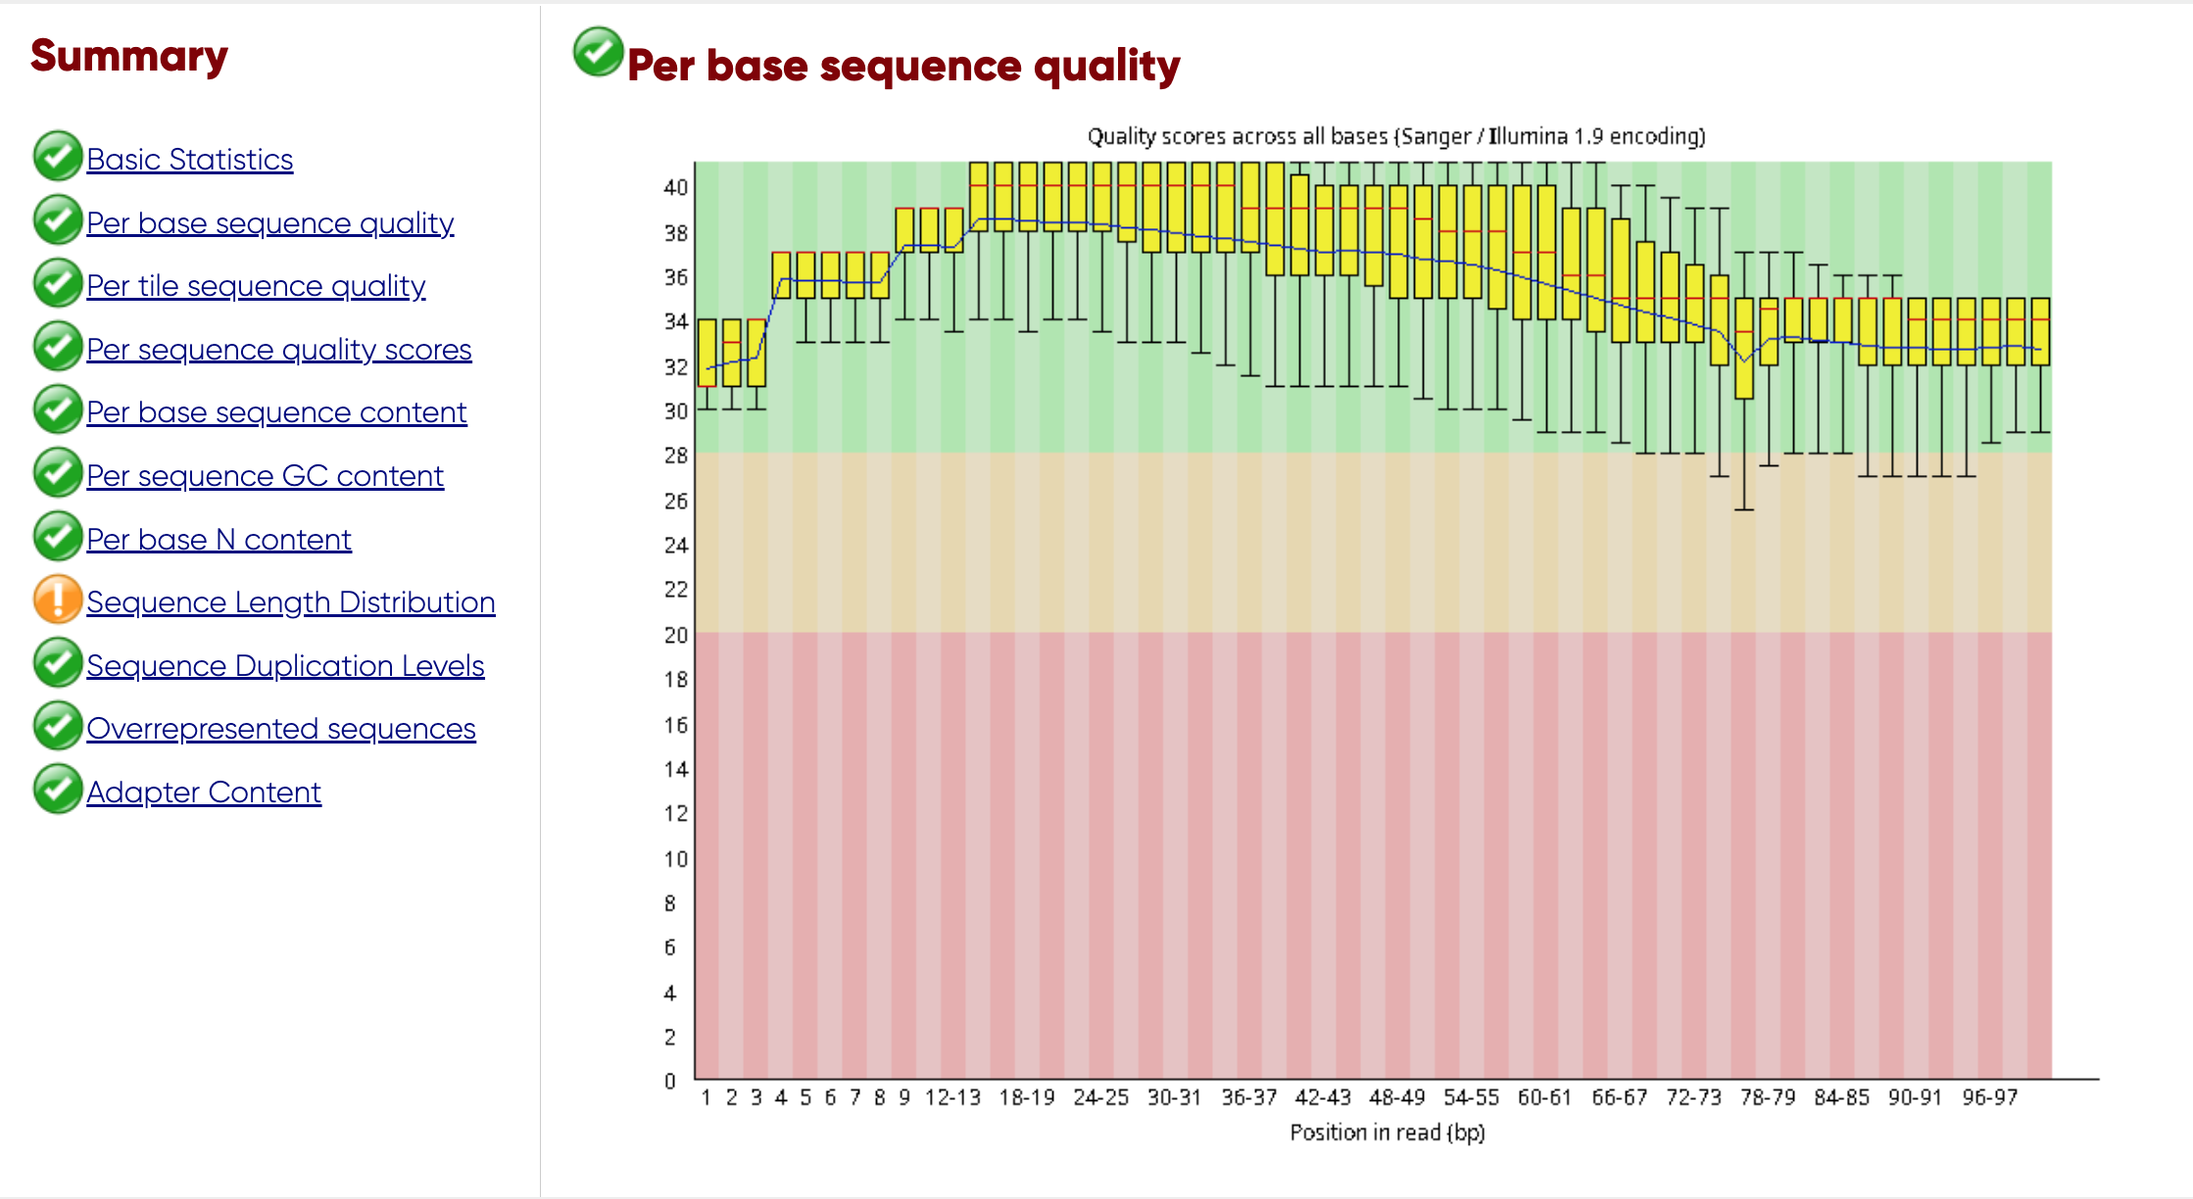
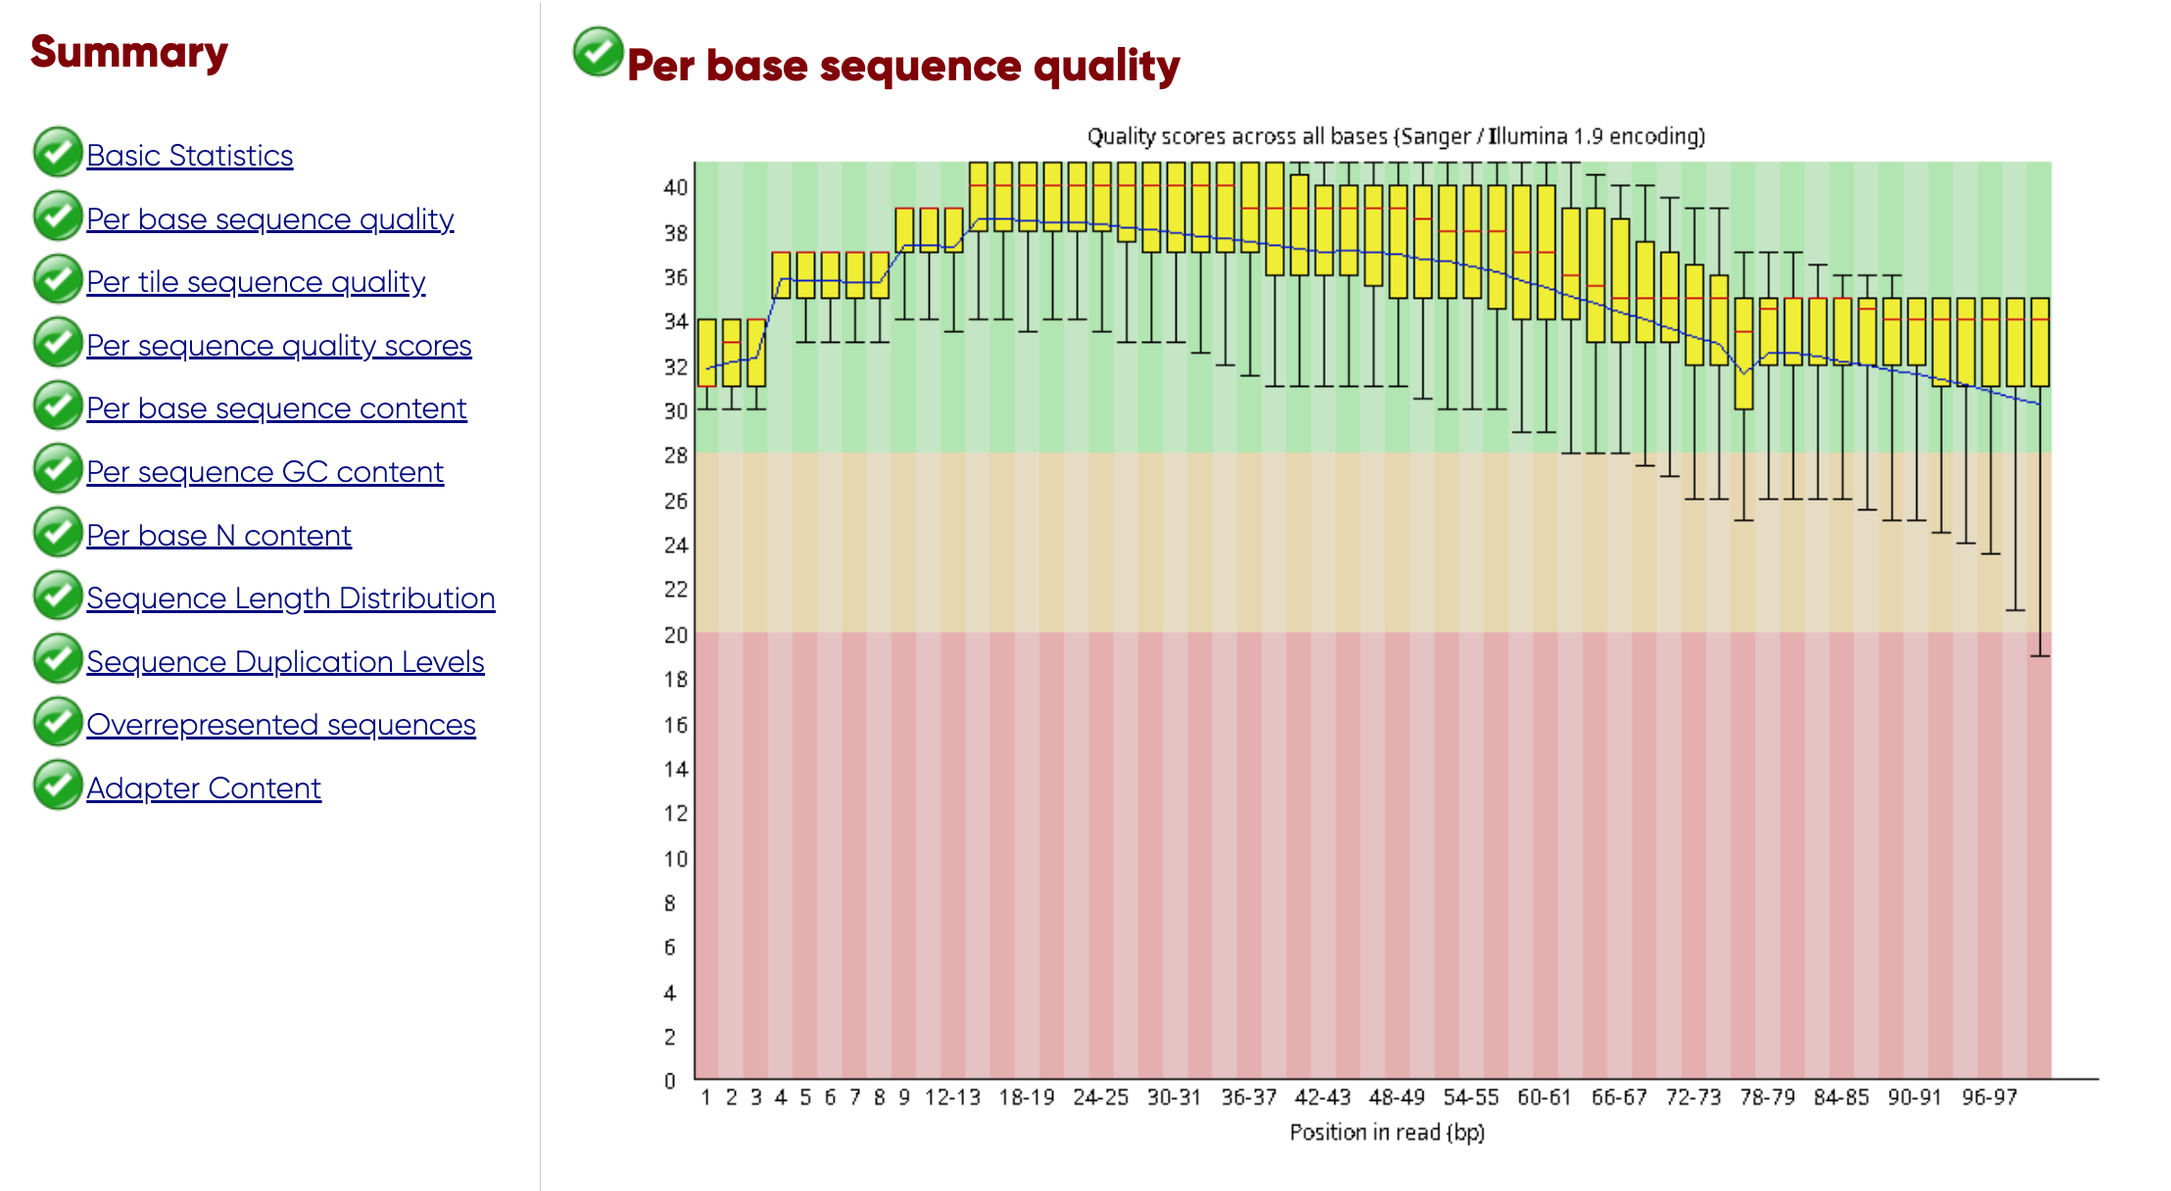
Added information about data; Added several images

diff --git a/RAPORT.md b/RAPORT.md
@@ -7,19 +7,29 @@ This repository contains all datasets, commands, and analyses used in the projec
 
 ## 📖 **Description**
 
-This project focuses on genome assembly, annotation and quality assessment of *Rhizoctonia solani* using multiple sequencing technologies (HiFi, Nanopore, and Illumina).
+This project focuses on genome assembly, annotation and quality assessment of _Rhizoctonia solani_, with a primary emphasis on anastomosis group AG-8, using multiple sequencing technologies (HiFi, Nanopore, and Illumina).
 
-Rhizoctonia solani is a phytopathogenic fungus belonging to the order Cantharellales (formerly classified within Basidiomycota). It is widely distributed in soil and is responsible for diseases affecting many cultivated plants, such as seedling damping-off, root rot, and leaf spot diseases. Rhizoctonia solani has a broad host range, which makes it difficult to control in agriculture.  
+_Rhizoctonia solani_ is a phytopathogenic fungus belonging to the order Cantharellales (formerly classified within Basidiomycota). It is widely distributed in soil and is responsible for diseases affecting many cultivated plants, such as seedling damping-off, root rot, and leaf spot diseases. _Rhizoctonia solani_ has a broad host range, which makes it difficult to control in agriculture.  
 
-The number of chromosomes in R. solani depends on the strain and ranges from 10 to 18. Strains AG8 and AG1 each possess 16 chromosomes. Genome size also varies among strains and ranges from 37 to 51 Mb. A significant portion of the genome consists of repetitive elements, which on average account for about 16% of the total DNA sequence. An interesting feature of this species is the ability of some strains to exist in a heterokaryotic form, meaning that their cells contain two different haploid nuclei, which increases their genetic diversity and adaptive potential.   
+The number of chromosomes in _R.solani_ depends on the strain and ranges from 10 to 18. Strains AG8 and AG1 each possess 16 chromosomes. Genome size also varies among strains and ranges from 37 to 51 Mb. A significant portion of the genome consists of repetitive elements, which on average account for about 16% of the total DNA sequence. An interesting feature of this species is the ability of some strains to exist in a heterokaryotic form, meaning that their cells contain two different haploid nuclei, which increases their genetic diversity and adaptive potential.   
+
+Although this study focuses on the assembly of the AG-8 genome, the most contiguous publicly available assembly of _R. solani_ belongs to AG-1 and was therefore used as the reference genome for reference-based and comparative analyses.
 
 ---
 
 ## 🧫 **Data**
 
+All datasets used in this study were obtained from the NCBI public repositories (GenBank and SRA). NCBI was chosen as the primary data source because it provides curated and versioned datasets, ensuring reproducibility and long-term accessibility. For all downloaded files, SHA-1 checksums were computed to verify data integrity and to enable exact replication of the analysis.
+
 ### 🧬 **Reference genome**
 
-Reference genome of *Rhizoctonia solani* AG-1 was downloaded using this command on the 29 Oct from the NCBI FTP:  
+Although _Rhizoctonia solani_ **AG-8** was the primary focus of genome assembly in this study, the publicly available **AG-8** reference assembly was not suitable for use as a high-quality reference genome.
+In particular, the available **AG-8** assembly is highly fragmented, consisting of  857 scaffolds, which limits its utility for reliable reference-based analyses and large-scale structural comparisons.
+
+For this reason, the most contiguous and well-assembled genome available for _R.solani_ was selected as the reference.
+The genome of _Rhizoctonia solani_ **AG-1**, which exhibits substantially higher contiguity and assembly quality, was therefore used as the primary reference genome in downstream analyses.
+
+Reference genome of _Rhizoctonia solani_ **AG-1** was downloaded using this command on the 29 Oct from the NCBI FTP:  
 ```
 wget "https://ftp.ncbi.nlm.nih.gov/genomes/all/GCF/016/906/535/GCF_016906535.1_ASM1690653v1/GCF_016906535.1_ASM1690653v1_genomic.fna.gz"
 ```
@@ -28,7 +38,7 @@ Resulting file:  `GCF_016906535.1_ASM1690653v1_genomic.fna`
 Shasum:  `87326de160c2cdf7436eef52a591c5abc4a1c1a8`
 
 
-Reference genome of *Rhizoctonia solani* AG-8 was downloaded using this command on the 24 Nov from the NCBI FTP:
+Reference genome of _Rhizoctonia solani_ **AG-8** was downloaded using this command on the 24 Nov from the NCBI FTP:
 ```
 wget 'https://ftp.ncbi.nlm.nih.gov/genomes/all/GCA/000/695/385/GCA_000695385.1_RSAG8-1.V1/GCA_000695385.1_RSAG8-1.V1_genomic.fna.gz'
 ```
@@ -40,7 +50,9 @@ Shasum:  `7ce7c33021e7f81b7c8d7967ac9946123a420476`
 
 ### 🧬 **HiFi reads**
 
-HiFi **SRR34390379** reads from *Rhizoctonia solani* **AG-8** were downloaded from [NCBI](https://trace.ncbi.nlm.nih.gov/Traces/?run=SRR34390379) on the 30 Oct 2025:
+PacBio HiFi reads provide high per-base accuracy and long read lengths, making them suitable for genome assembly, polishing, and structural variant detection.
+
+HiFi **SRR34390379** reads from _Rhizoctonia solani_ **AG-8** were downloaded from [NCBI](https://trace.ncbi.nlm.nih.gov/Traces/?run=SRR34390379) on the 30 Oct 2025:
 ```
 prefetch SRR34390379
 fasterq-dump SRR34390379
@@ -53,7 +65,7 @@ Shasum: `f23b3523af9fe21aeef2066da8ba14444e2a0ea7`
 
 ### 🧬 **Nanopore reads**
 
-Nanopore reads **SRR17331923** (GridION) from *Rhizoctonia solani* **AG-7** were downloaded from [NCBI](https://trace.ncbi.nlm.nih.gov/Traces/?view=run_browser&acc=SRR17331923&display=metadata):
+Nanopore reads **SRR17331923** (GridION) from _Rhizoctonia solani_ **AG-7** were downloaded from [NCBI](https://trace.ncbi.nlm.nih.gov/Traces/?view=run_browser&acc=SRR17331923&display=metadata):
 ```
 prefetch SRR17331923
 fasterq-dump SRR17331923
@@ -62,12 +74,15 @@ fasterq-dump SRR17331923
 Resulting file: `SRR17331923.fastq`  
 Shasum: `c661512388e38debe5a84347e48f3b9e00c702ae`
 
+The choice of Nanopore reads from **AG-7** was motivated by the lack of publicly available Nanopore sequencing data for _R.solani_ **AG-8** in the NCBI SRA at the time of data collection.
+Among the available datasets, **AG-7** represents the closest phylogenetically related lineage to **AG-8**, making it the most suitable proxy for incorporating long-read Nanopore data into the analysis.
+
 ---
 
 ### 🧬 **Illumina reads**
 
 
-Illumina (HiSeq 2000) paired-end reads **SRR8926039** from *Rhizoctonia solani* **AG-8** were downloaded from 
+Illumina (HiSeq 2000) paired-end reads **SRR8926039** from _Rhizoctonia solani_ **AG-8** were downloaded from 
 [NCBI](https://trace.ncbi.nlm.nih.gov/Traces/?view=run_browser&acc=SRR8926039&display=metadata) on 24 Nov 2025:
 ```
 prefetch SRR8926039
@@ -84,7 +99,7 @@ Shasum:
 
 ---
 
-Illumina (HiSeq 2000) paired-end reads **SRR11560048** from *Rhizoctonia solani* **AG-1** were downloaded from [NCBI](https://trace.ncbi.nlm.nih.gov/Traces/?view=run_browser&acc=SRR11560048&display=metadata) on 29 Oct 2025:
+Illumina (HiSeq 2000) paired-end reads **SRR11560048** from _Rhizoctonia solani_ **AG-1** were downloaded from [NCBI](https://trace.ncbi.nlm.nih.gov/Traces/?view=run_browser&acc=SRR11560048&display=metadata) on 29 Oct 2025:
 ```
 prefetch SRR11560048
 fasterq-dump SRR11560048
@@ -102,7 +117,9 @@ Shasum:
 
 ### 🧬 **Hi-C reads**
 
-Hi-C paired-end reads **SRR34411203** from *Rhizoctonia solani* **AG-8** were downloaded from [NCBI](https://www.ncbi.nlm.nih.gov/sra/SRX29574603[accn]) on 18 Nov 2025:
+Hi-C sequencing data capture three-dimensional chromatin interactions, enabling scaffolding of contigs into chromosome-scale assemblies and validation of large-scale genome organization.
+
+Hi-C paired-end reads **SRR34411203** from _Rhizoctonia solani_ **AG-8** were downloaded from [NCBI](https://www.ncbi.nlm.nih.gov/sra/SRX29574603[accn]) on 18 Nov 2025:
 ```
 prefetch SRR34411203
 fasterq-dump SRR34411203
@@ -123,28 +140,66 @@ Shasum:
 ### **HiFi reads**
 
 #### **FastQC**
-```
-fastqc SRR11560043.fastq
-```
-Results of quality control were ideal.
-
 
 ```
 fastqc SRR34390379.fastq
 ```
 
-![SRR34390379 FastQC](./data/images/SRR_HIFI_fastqc.png)
+![SRR34390379 FastQC](./data/images/FastQC-raport-SRR34390379.png)
+
+![SRR34390379 FastQC](./data/images/FastQC-raport-SRR34390379_PBSC.png)
+A strong nucleotide composition bias was observed at the first base position of HiFi reads, with an overrepresentation of thymine. This effect is a known technical artifact associated with SMRTbell library construction and circular consensus sequencing and does not reflect underlying genomic sequence composition. Nucleotide frequencies stabilized after the first base position, indicating high-quality reads.
+
+![SRR34390379 FastQC](./data/images/FastQC-raport-SRR34390379_GC.png)
+The distribution is characterized by a sharp peak centered at approximately 49% GC, reaching nearly the maximum of the plot, indicating that a large fraction of reads share a highly similar GC composition.
+
+In addition to the dominant peak, a secondary, smaller peak around ~35-36% GC is also observed.
+The presence of multiple peaks suggests that the dataset likely represents a mixture of sequences originating from distinct genomic sources, rather than a single homogeneous genome.
+
+During downstream genome assembly, reads contributing to the secondary GC peak were assembled into a small number of contigs that could not be mapped to the selected reference genome.
+These contigs are therefore likely derived from contaminating organisms.
+
+#### **NanoPlot**
+
+```
+NanoPlot \
+  --fastq SRR34390379.fastq \
+  -o nanoplot_SRR34390379
+```
+
+![SRR34390379 FastQC](./data/images/NanoPlot_raport_SRR34390379.png)
+
+---
+
+![SRR34390379 FastQC](./data/images/NanoPlot_KDE_SRR34390379.png)
+
 
 ---
 
 ### **Nanopore**
 
+#### **NanoPlot**
+
+DOT
+```
+NanoPlot \
+  --fastq SRR17331923.fastq \
+  --plots dot \
+  --downsample 200000 \
+  --loglength \
+  -o nanoplot_SRR17331923_2
+```
+
 #### **Preliminary QC**
 ```
-NanoPlot --fastq SRR[number].fastq -o SRR[number]_nanoplot
+NanoPlot --fastq SRR17331923.fastq -o SRR17331923_nanoplot
 ```
 
 ![SRR17331923 nanoplot statistics](./data/images/SRR17331923_nanoplot_STATS.png)
+
+---
+
+![SRR17331923 nanoplot statistics](./data/images/NanoPlot_KDE_SRR17331923_before.png)
 
 #### **Adapter trimming**
 ```
@@ -165,6 +220,13 @@ filtlong --min_length 1000 --keep_percent 90 SRR17331923_trimmed.fq > SRR1733192
 
 ![SRR17331923 nanoplot statistics](./data/images/SRR17331923_nanoplot_clean_STATS.png)
 
+---
+
+![SRR17331923 nanoplot statistics](./data/images/NanoPlot_KDE_SRR17331923_clean.png)
+
+
+---
+
 ### **Illumina**
 
 **SRR11560048**
@@ -173,10 +235,14 @@ filtlong --min_length 1000 --keep_percent 90 SRR17331923_trimmed.fq > SRR1733192
 
 ```
 fastqc SRR11560048_1.fastq
+```
+![FastQC report SRR11560048_1](./data/images/FastQC-raport-SRR11560048_1.png)
+
+```
 fastqc SRR11560048_2.fastq
 ```
-Reports are stored in data/reads/FASTQC_REPORTS   
-Reads were already preprocessed by authors  
+![FastQC report SRR11560048_2](./data/images/FastQC-raport-SRR11560048_2.png)
+
 
 #### **Fastp**
 
@@ -203,17 +269,25 @@ Fastp report is stored in data/reads/FASTP_REPORTS
 
 #### **FastQC after preprocessing**
 
+Prior to trimming, the Illumina data showed excellent quality in FastQC, with all metrics within the green range. After processing with fastp, the sequence length distribution displayed minor peaks around 90–91 bp and 94–95 bp. These small shifts likely reflect the trimming of adapters or low-quality bases by fastp, resulting in slightly shorter reads.
+
 ```
 fastqc SRR11560048_1.clean.fastq.gz
+```
+
+![FastQC report SRR11560048](./data/images/FastQC-raport-SRR11560048_1_clean_SLD.png)
+
+
+```
 fastqc SRR11560048_2.clean.fastq.gz
 ```
-Reports are stored in data/reads/FASTQC_REPORTS 
 
-![FastQC report SRR11560048](./data/images/FastQC-raport-SRR11560048_1.png)
+![FastQC report SRR11560048](./data/images/FastQC-raport-SRR11560048_2_clean_SLD.png)
+
 
 ---
 
-![FastQC report SRR11560048](./data/images/FastQC-raport-SRR11560048_2.png)
+
 
 
 ## 🧬 **Assembly**
@@ -437,7 +511,7 @@ mummerplot -p dot_hifiasm_HIFI_SRR34390379_HIC_SRR34411203_plot -t png hifiasm_H
 
 # QUAST
 
-### **Reference genome: R.solani AG-1**
+### **Reference genome: _R.solani_ AG-1**
  
 ```
 quast -r ref/GCF_016906535.1_ASM1690653v1_genomic.fna -l "spades_illumina_pe, smart_nanopore, smart_hifi, miniasm_nanopore, miniasm_hifi, hifiasm" assembly/spades_illumina_SRR11560048_pe/scaffolds.fasta assembly/SMARTdenovo_nanopore_SRR17331923/SMARTdenovo_nanopore_SRR17331923.dmo.cns assembly/SMARTdenovo_HIFI_SRR11560043/SMARTdenovo_HIFI_SRR11560043.dmo.cns assembly/Minimap2_nanopore_SRR17331923/miniasm_nanopore_SRR17331923.fa assembly/Minimap2_HIFI_SRR11560043/miniasm_HIFI_SRR11560043.fa assembly/Hifiasm_HIFI_SRR34390379_HIC_SRR34411203/hifiasm_HIFI_SRR34390379_HIC_SRR34411203.hic.p_ctg.fa
@@ -446,7 +520,7 @@ quast -r ref/GCF_016906535.1_ASM1690653v1_genomic.fna -l "spades_illumina_pe, sm
 ![Quast analysis Ref: AG-1](./data/images/quast_all_AG1_2.png)
 
 
-### **Reference genome: R.solani AG-8**
+### **Reference genome: _R.solani_ AG-8**
 Throughout all stages of the analysis, the AG-1 reference genome was used due to its higher completeness. The QUAST comparison against the AG-8 reference genome was performed only for illustrative purposes, as this assembly consists of 857 scaffolds and is of lower quality than the assembly generated by me.
 ```
 quast -r ref/GCA_000695385.1_RSAG8-1.V1_genomic.fna -l "spades_illumina_pe, smart_nanopore, smart_hifi, miniasm_nanopore, miniasm_hifi, hifiasm" assembly/spades_illumina_SRR11560048_pe/scaffolds.fasta assembly/SMARTdenovo_nanopore_SRR17331923/SMARTdenovo_nanopore_SRR17331923.dmo.cns assembly/SMARTdenovo_HIFI_SRR11560043/SMARTdenovo_HIFI_SRR11560043.dmo.cns assembly/Minimap2_nanopore_SRR17331923/miniasm_nanopore_SRR17331923.fa assembly/Minimap2_HIFI_SRR11560043/miniasm_HIFI_SRR11560043.fa assembly/Hifiasm_HIFI_SRR34390379_HIC_SRR34411203/hifiasm_HIFI_SRR34390379_HIC_SRR34411203.hic.p_ctg.fa
@@ -459,7 +533,7 @@ quast -r ref/GCA_000695385.1_RSAG8-1.V1_genomic.fna -l "spades_illumina_pe, smar
 
 ### **HiFi SRR34390379 + Hi-C SRR34411203 using Illumina SRR8926039 reads**
 
-Polishing genome assembly was performed using short Illumina reads from R.solani AG-8 strain.   
+Polishing genome assembly was performed using short Illumina reads from _R.solani_ AG-8 strain.   
 
 ```
 mkdir CORRECTED_Masurca_Hifiasm_HIFI_SRR34390379_HIC_SRR34411203_illumina_SRR8926039
@@ -827,7 +901,7 @@ New GTF file contains genes with information about GO and KEGG:
 
 
 ## **Analysis of genome assembly**  
-The genome of Rhizoctonia solani consists of 16 chromosomes. Visualization in Bandage clearly shows 16 large scaffolds and more than 140 small contigs. Following genome annotation, many of these small contigs remained unannotated.   
+The genome of _Rhizoctonia solani_ consists of 16 chromosomes. Visualization in Bandage clearly shows 16 large scaffolds and more than 140 small contigs. Following genome annotation, many of these small contigs remained unannotated.   
 
 ### **Python scripts used for analysis**
 
@@ -1224,12 +1298,12 @@ FNR==NR {chr[$1]=$2; start[$1]=$3; end[$1]=$4; next}
 
 ## **Conclusion**
 
-In this project, I applied a comprehensive bioinformatics pipeline for genome assembly, annotation, and analysis of Rhizoctonia solani. Using publicly available sequencing data generated by multiple technologies (HiFi, Nanopore, Illumina, Hi-C, and RNA-seq), I performed all major stages of genome analysis, including quality control, de novo assembly, scaffolding, polishing, gene prediction, and functional annotation.     
+In this project, I applied a comprehensive bioinformatics pipeline for genome assembly, annotation, and analysis of _Rhizoctonia solani_. Using publicly available sequencing data generated by multiple technologies (HiFi, Nanopore, Illumina, Hi-C, and RNA-seq), I performed all major stages of genome analysis, including quality control, de novo assembly, scaffolding, polishing, gene prediction, and functional annotation.     
 
 Through a comparative evaluation of different assembly strategies, I demonstrated that long-read and hybrid approaches—particularly assemblies generated with hifiasm using HiFi and Hi-C data—produced the most contiguous and structurally coherent genomes. These assemblies achieved higher N50 values and reduced fragmentation compared to short-read-only approaches.   
 
 Gene prediction performed with BRAKER3, supported by RNA-seq and protein evidence, resulted in a high-quality gene set. BUSCO completeness scores indicated that the majority of conserved fungal genes were successfully recovered at both the genome and protein levels. Functional annotation using EggNOG provided additional biological context by assigning predicted genes to orthologous groups and functional categories.   
 
-Repeat annotation and genome-wide statistics revealed that a substantial fraction of the R. solani genome is composed of repetitive elements, accounting for approximately 24% of the assembly. Detailed analysis of scaffold composition demonstrated that large, chromosome-scale scaffolds contain the majority of annotated genes, whereas many smaller scaffolds are either highly repetitive or lack gene annotations and exhibit atypical GC content. These observations informed decisions regarding scaffold inclusion in the final annotation and highlighted regions that may require further refinement or biological investigation.   
+Repeat annotation and genome-wide statistics revealed that a substantial fraction of the _R.solani_ genome is composed of repetitive elements, accounting for approximately 24% of the assembly. Detailed analysis of scaffold composition demonstrated that large, chromosome-scale scaffolds contain the majority of annotated genes, whereas many smaller scaffolds are either highly repetitive or lack gene annotations and exhibit atypical GC content. These observations informed decisions regarding scaffold inclusion in the final annotation and highlighted regions that may require further refinement or biological investigation.   
 
 Finally, visualization of assembly graphs and genomic features using tools such as Bandage, Circos, and MUMmer-based dot plots facilitated interpretation of genome structure and scaffold-to-reference relationships, supporting the identification of chromosome-scale scaffolds and structurally ambiguous regions.   
